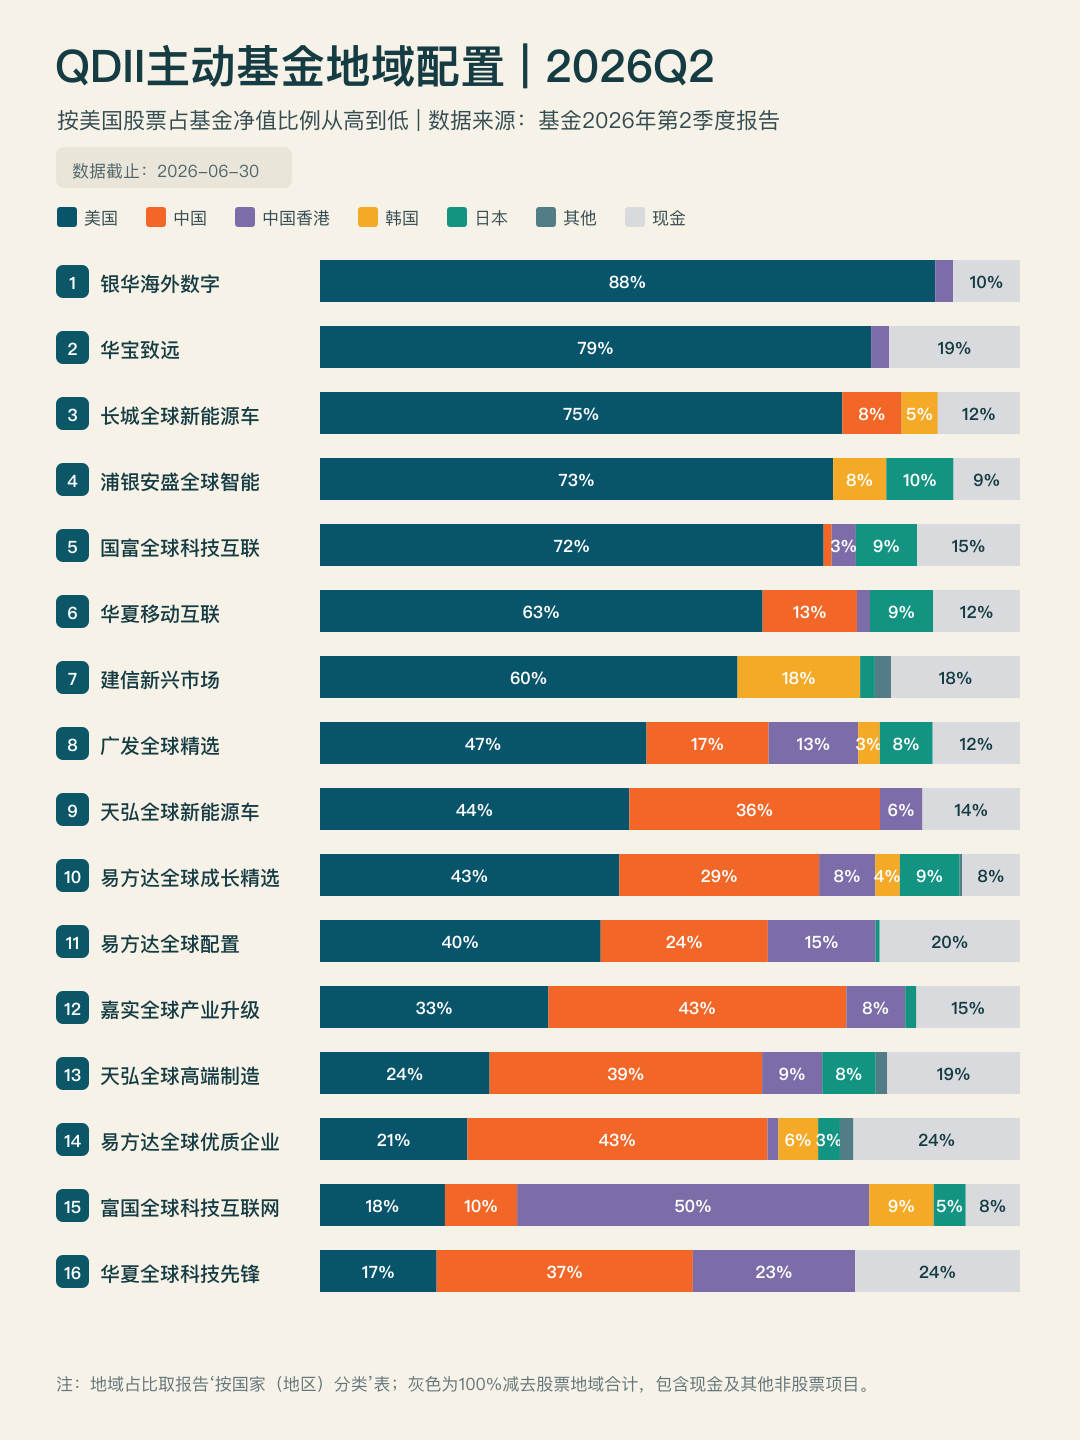
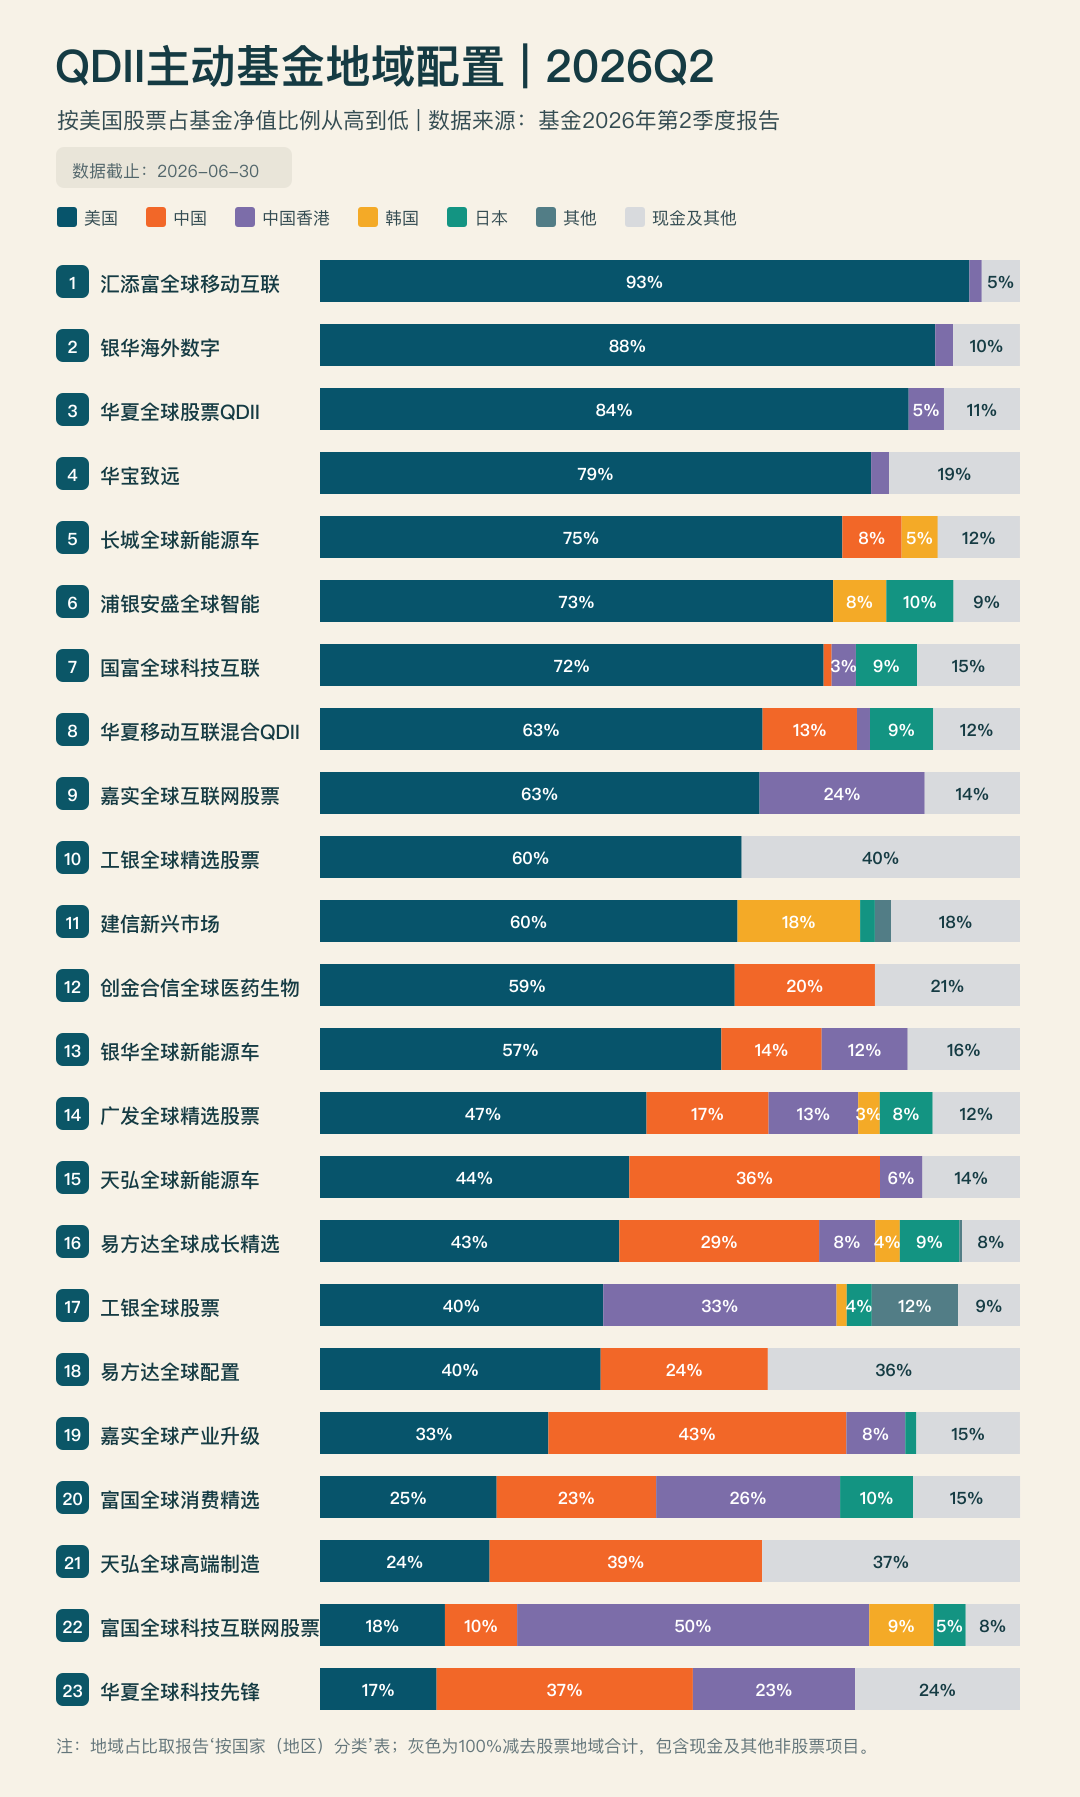
feat: update default funds and adapt dynamic chart height

diff --git a/README.md b/README.md
@@ -25,7 +25,7 @@ Fund Region Allocation 把这套工作交给 AI：你只需要说出报告期和
     <img src="assets/preview-2026Q2.png" width="760" alt="2026Q2 QDII 主动基金地域配置图">
   </a>
   <br>
-  <sub>16 只 QDII 主动基金 · 2026Q2</sub>
+  <sub>23 只 QDII 主动基金 · 2026Q2</sub>
 </div>
 
 ## Install
@@ -80,17 +80,21 @@ AI 会自动完成：
 
 ## Default Funds
 
-默认基金池来自最初的对比需求，每只基金只保留一个代表份额，避免 A/C 类和人民币/美元份额重复。
+默认基金池采用以下 23 只持有美股的 QDII 基金，每只基金只保留一个代表份额，避免 A/C 类和人民币/美元份额重复。
 
 <table>
-<tr><td>01 · 银华海外数字</td><td>09 · 天弘全球新能源车</td></tr>
-<tr><td>02 · 华宝致远</td><td>10 · 易方达全球成长精选</td></tr>
-<tr><td>03 · 长城全球新能源车</td><td>11 · 易方达全球配置</td></tr>
-<tr><td>04 · 浦银安盛全球智能</td><td>12 · 嘉实全球产业升级</td></tr>
-<tr><td>05 · 国富全球科技互联</td><td>13 · 天弘全球高端制造</td></tr>
-<tr><td>06 · 华夏移动互联</td><td>14 · 易方达全球优质企业</td></tr>
-<tr><td>07 · 建信新兴市场</td><td>15 · 富国全球科技互联网</td></tr>
-<tr><td>08 · 广发全球精选</td><td>16 · 华夏全球科技先锋</td></tr>
+<tr><td>01 · 富国全球科技互联网股票</td><td>02 · 嘉实全球互联网股票</td></tr>
+<tr><td>03 · 工银全球精选股票</td><td>04 · 华夏全球股票QDII</td></tr>
+<tr><td>05 · 华夏全球科技先锋</td><td>06 · 汇添富全球移动互联</td></tr>
+<tr><td>07 · 富国全球消费精选</td><td>08 · 华夏移动互联混合QDII</td></tr>
+<tr><td>09 · 广发全球精选股票</td><td>10 · 工银全球股票</td></tr>
+<tr><td>11 · 银华全球新能源车</td><td>12 · 创金合信全球医药生物</td></tr>
+<tr><td>13 · 易方达全球成长精选</td><td>14 · 银华海外数字</td></tr>
+<tr><td>15 · 华宝致远</td><td>16 · 长城全球新能源车</td></tr>
+<tr><td>17 · 浦银安盛全球智能</td><td>18 · 国富全球科技互联</td></tr>
+<tr><td>19 · 建信新兴市场</td><td>20 · 天弘全球新能源车</td></tr>
+<tr><td>21 · 易方达全球配置</td><td>22 · 嘉实全球产业升级</td></tr>
+<tr><td>23 · 天弘全球高端制造</td><td></td></tr>
 </table>
 
 完整代码与名称位于 [`assets/funds.json`](assets/funds.json)。需要其他基金时，把清单交给 AI 即可。
@@ -107,7 +111,7 @@ AI 会自动完成：
 
 ## Automation
 
-每次推送 Tag，GitHub Actions 会为默认 16 只基金自动生成产物，并同时发布为 Actions Artifact 和 GitHub Release Assets。
+每次推送 Tag，GitHub Actions 会为默认 23 只基金自动生成产物，并同时发布为 Actions Artifact 和 GitHub Release Assets。
 
 ```bash
 git tag -s 2026Q3 -m "Generate 2026Q3 fund allocation"
